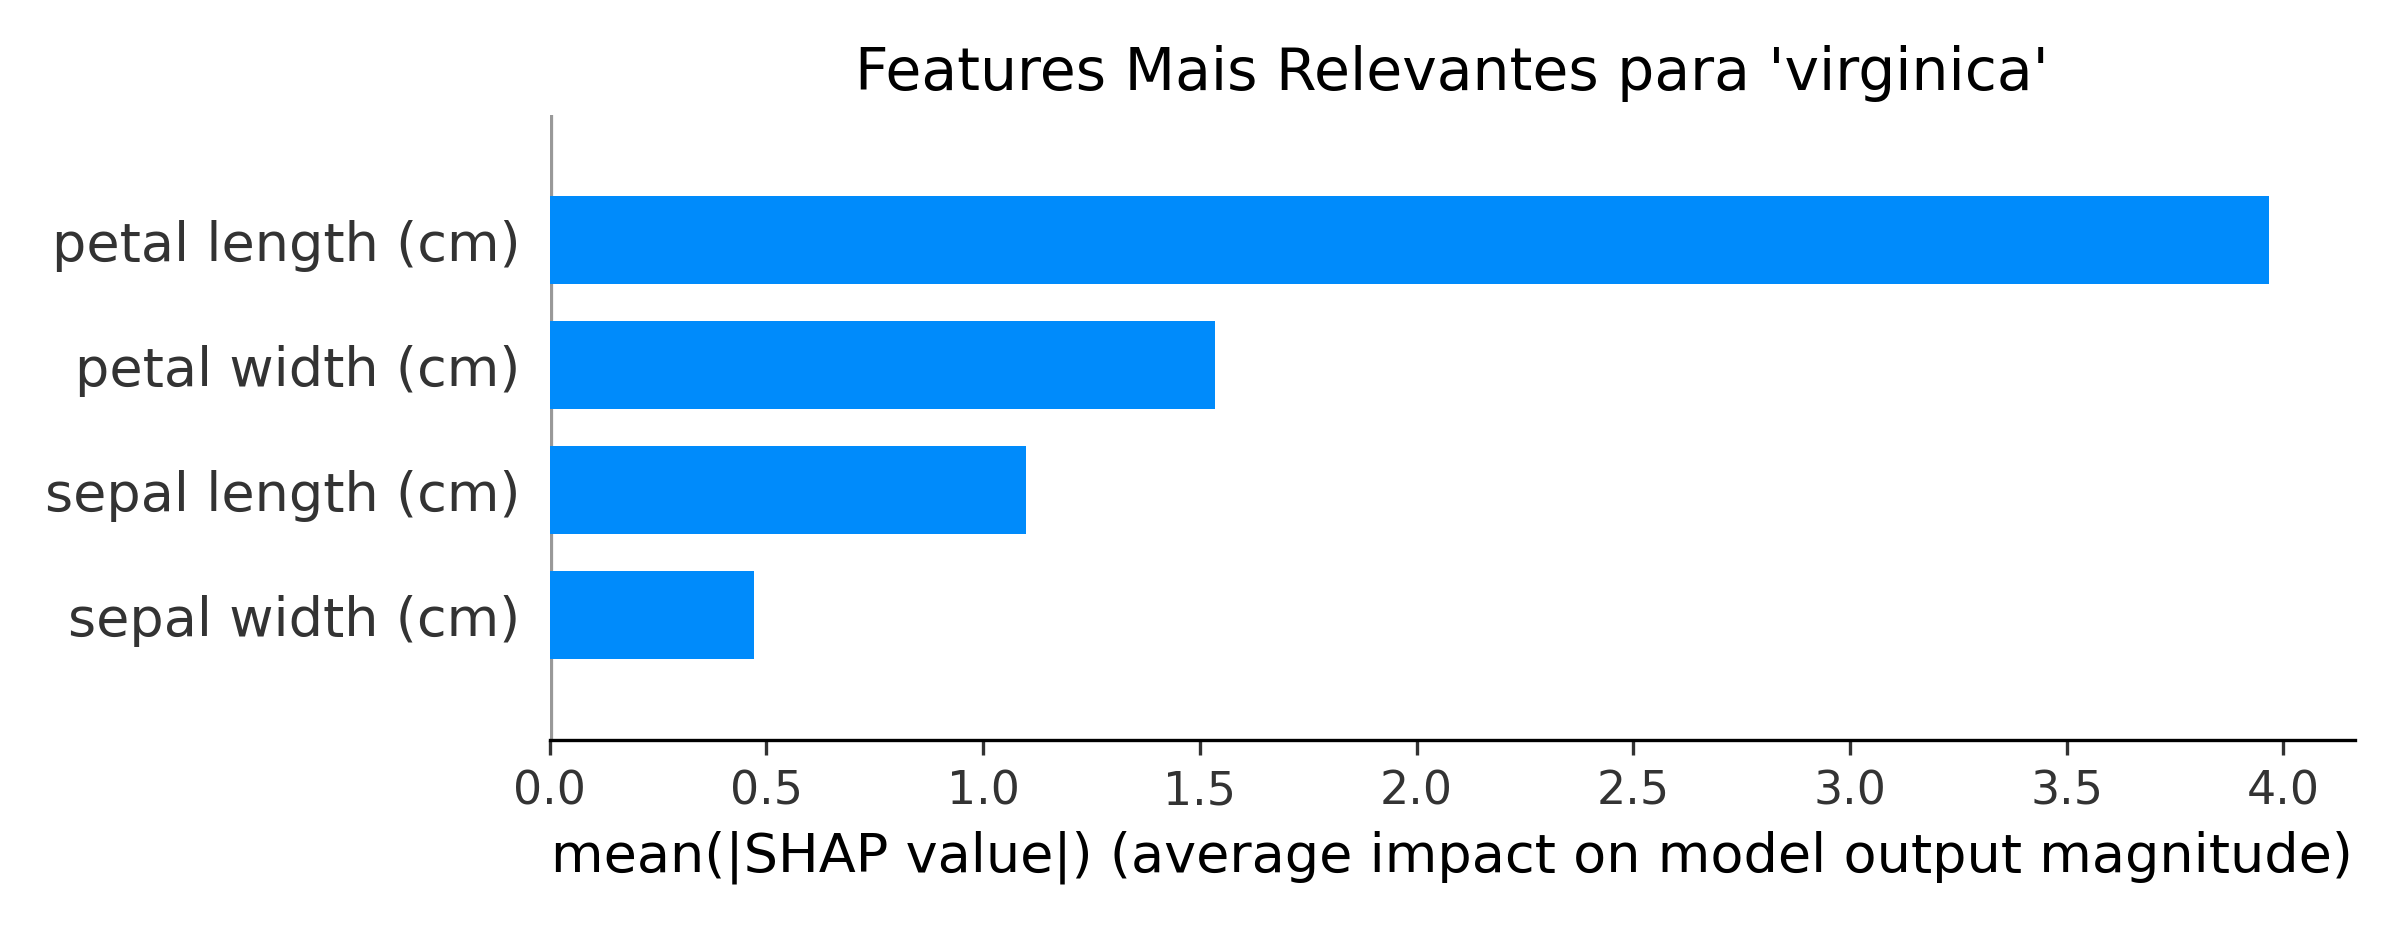
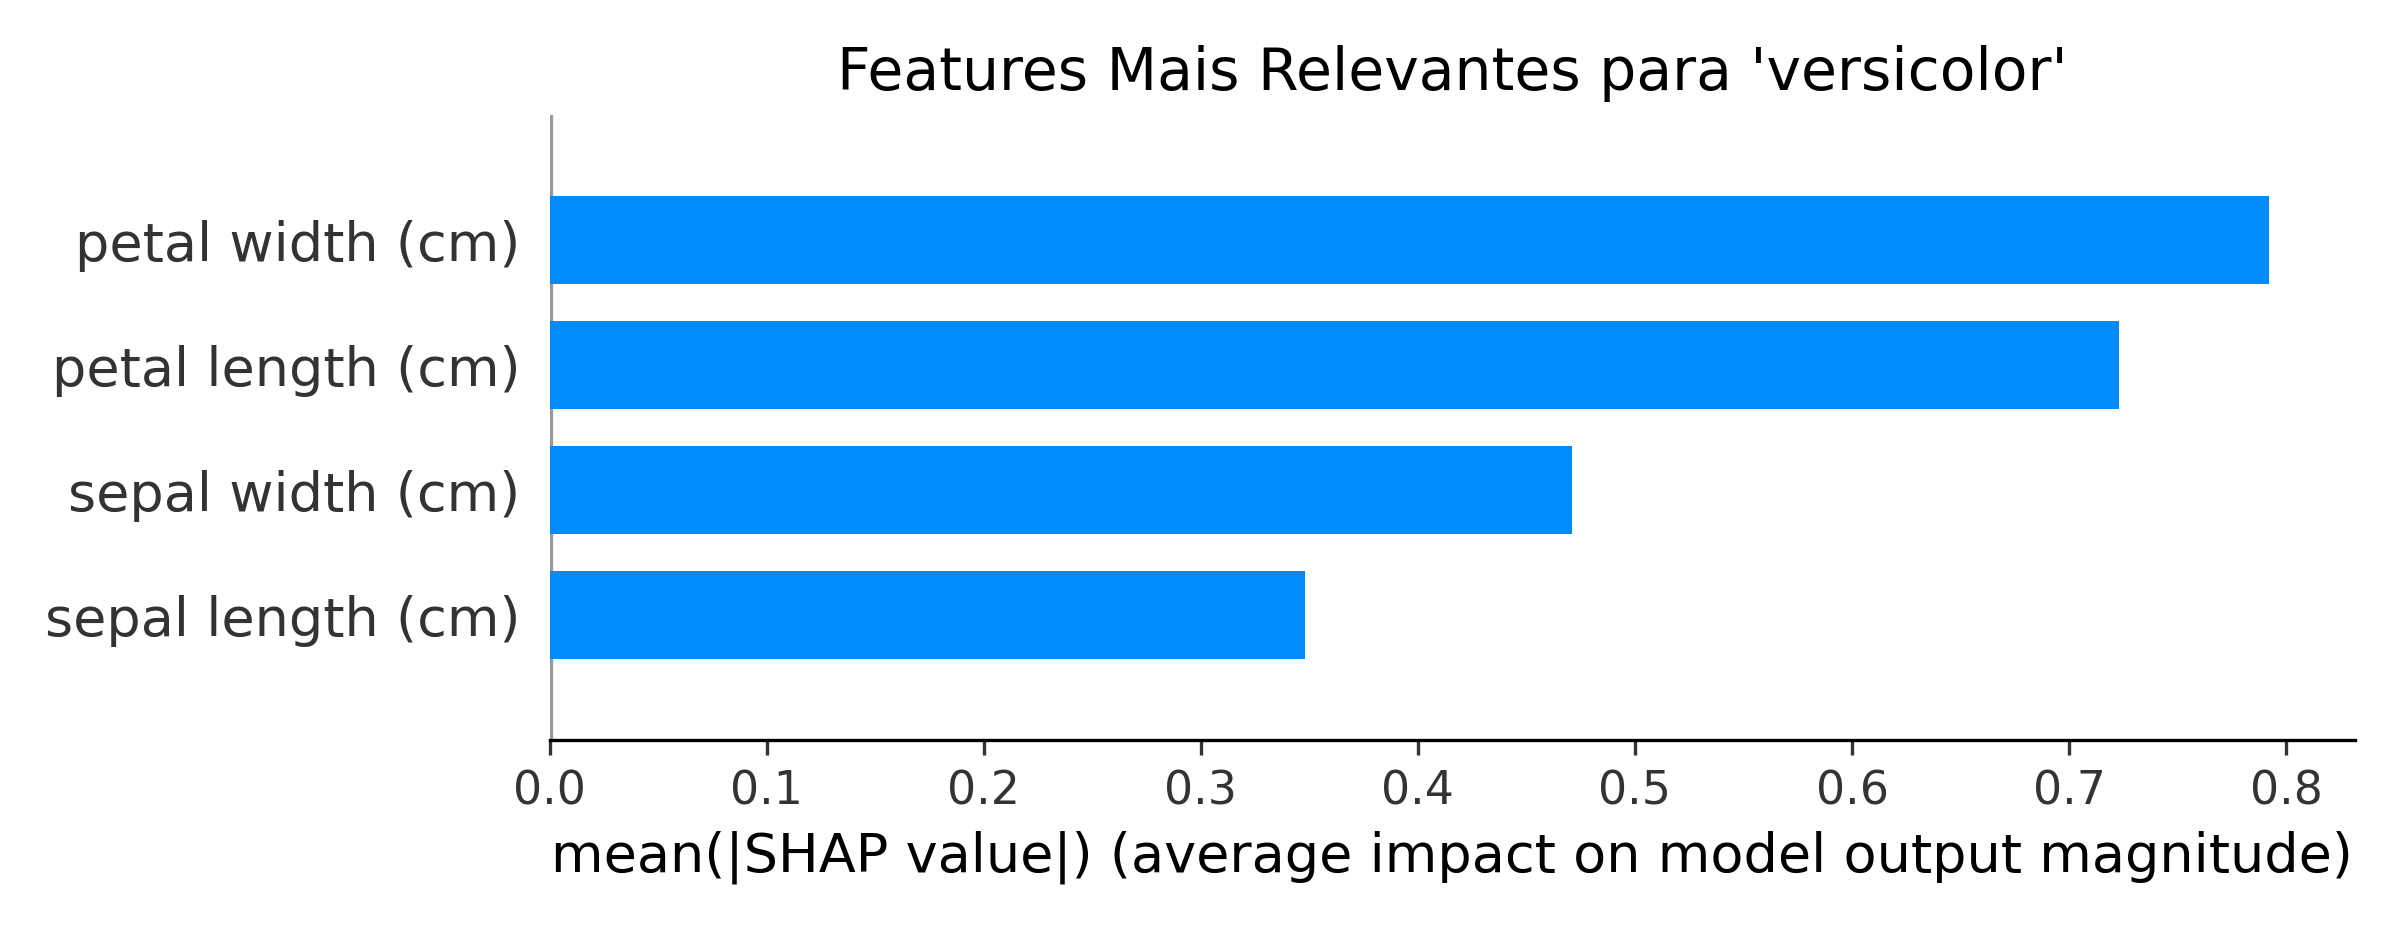
testando_SHAP

diff --git a/SHAP.py b/SHAP.py
@@ -3,7 +3,7 @@ import numpy as np
 from sklearn.linear_model import LogisticRegression
 from sklearn.model_selection import train_test_split
 import matplotlib.pyplot as plt
-from data.load_datasets import selecionar_dataset_e_classe
+from load_datasets import selecionar_dataset_e_classe
 import shap
 import sys
 import warnings
@@ -35,15 +35,20 @@ def main():
     explainer = shap.LinearExplainer(model, X_train)
     shap_values = explainer.shap_values(X_test)
     
+    # Corrigindo o formato dos valores esperados para classificação binária
+    if not isinstance(explainer.expected_value, list):
+        explainer.expected_value = [explainer.expected_value]
+    
     # 6. Plot de resumo global
     print("\nGerando visualizações SHAP...")
     plt.figure(figsize=(12, 6))
     shap.summary_plot(shap_values, X_test, plot_type="bar", show=False)
     plt.title(f"Features Mais Relevantes para '{classe_0_nome}'", fontsize=14)
     plt.tight_layout()
-    plt.savefig('shap_global_summary.png', dpi=300)
+    global_summary_file = f"shap_{nome_dataset}_global_summary.png"
+    plt.savefig(global_summary_file, dpi=300)
     plt.close()
-    print("-> Gráfico global salvo como 'shap_global_summary.png'")
+    print(f"-> Gráfico global salvo como '{global_summary_file}'")
     
     # 7. Análise por instância
     while True:
@@ -68,13 +73,15 @@ def main():
             explainer.expected_value[0], 
             shap_values[idx], 
             feature_names=feature_names,
-            show=False
+            show=False,
+            highlight=int(true_class)
         )
         plt.title(f"Contribuição das Features - Instância {idx}\nClasse Real: {class_names[true_class]}", fontsize=14)
         plt.tight_layout()
-        plt.savefig(f'shap_decision_{idx}.png', dpi=300)
+        decision_file = f"shap_{nome_dataset}_decision_{idx}.png"
+        plt.savefig(decision_file, dpi=300)
         plt.close()
-        print(f"-> Gráfico de decisão salvo como 'shap_decision_{idx}.png'")
+        print(f"-> Gráfico de decisão salvo como '{decision_file}'")
         
         # 9. Métricas e explicação textual
         print("\n" + "="*60)
